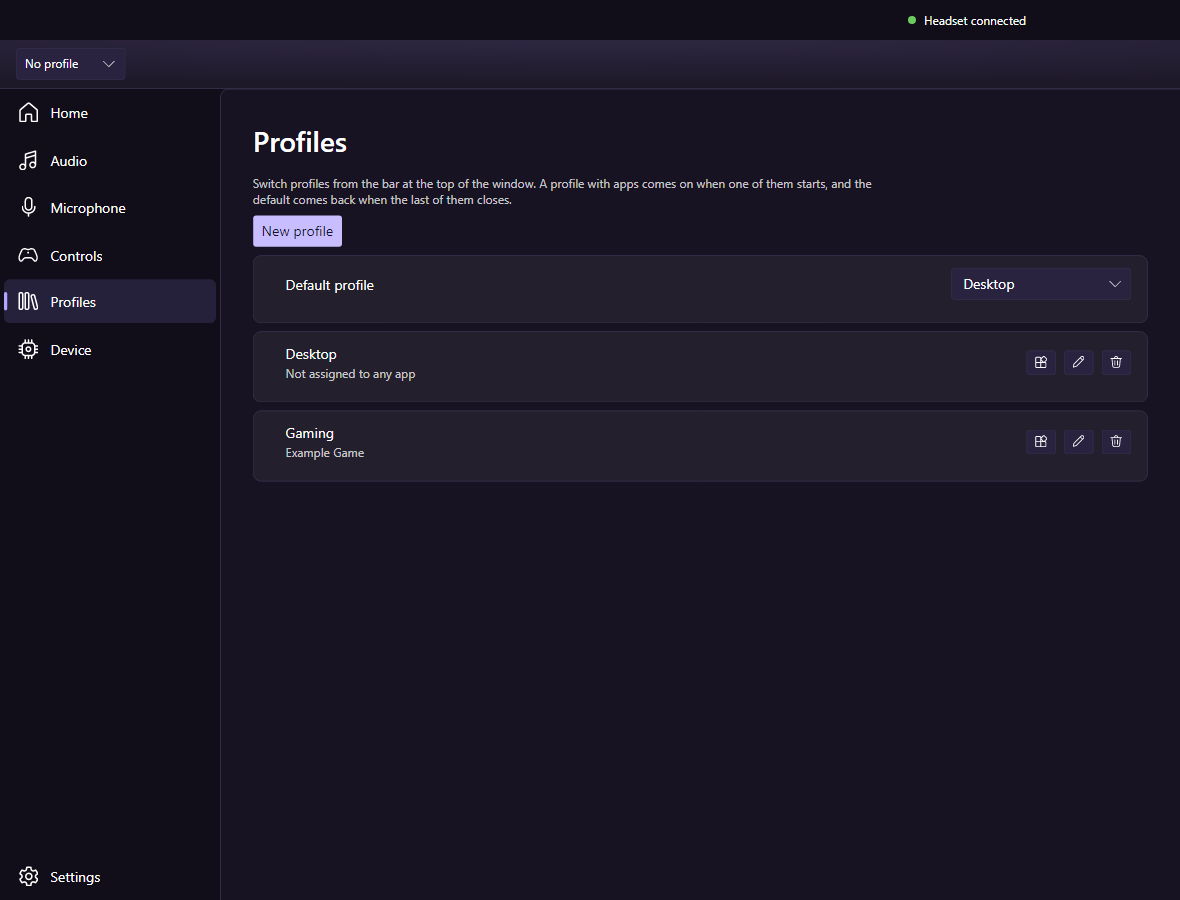
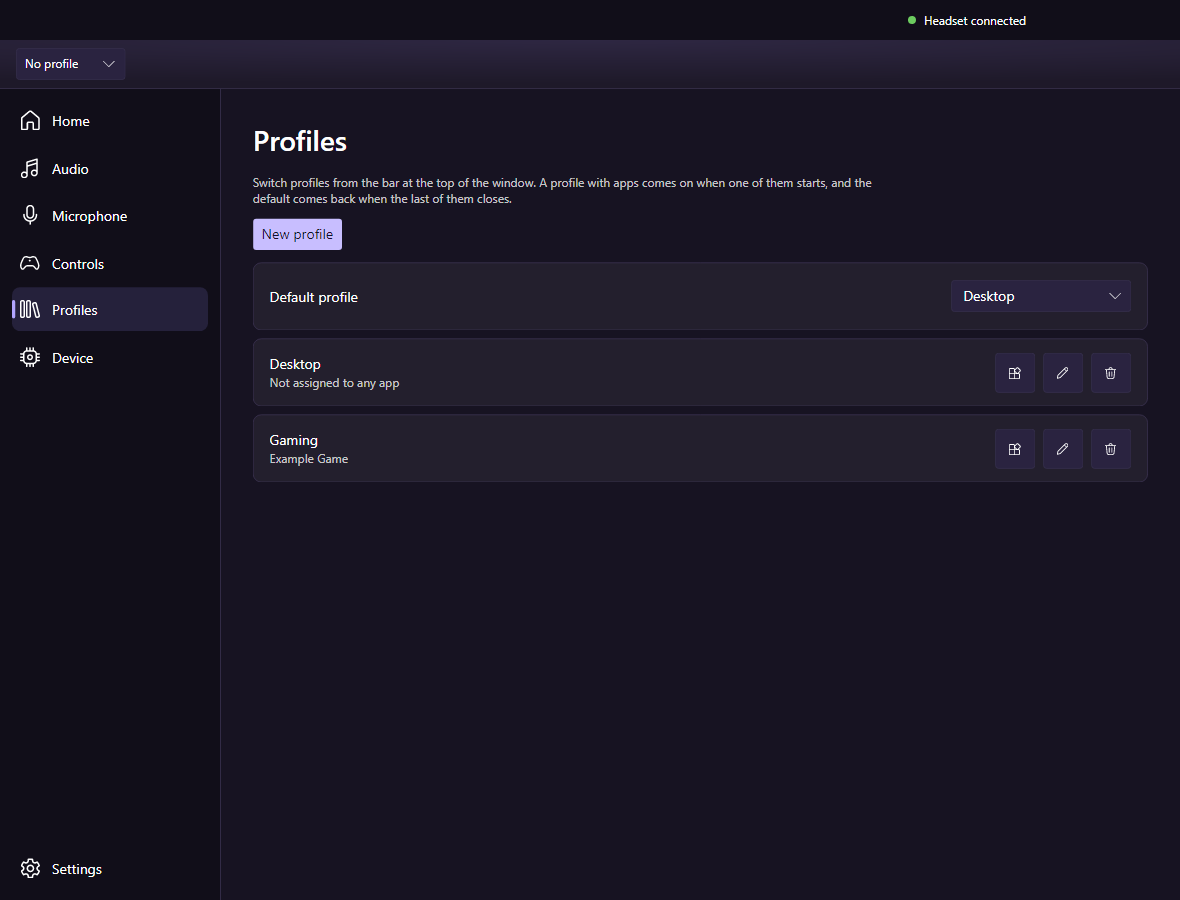
Bring the README up to the released app
The five pictures are retaken from the build that was released, with the new menu, Home readings and spacing, and the Charging Dock text now says the spare shows a bolt while it charges, and a battery just put in the headset reads Settling until it steadies.

diff --git a/README.md b/README.md
@@ -66,8 +66,11 @@ then goes back to your default when it closes.
 
 ### The Charging Dock
 
-See the spare battery's charge while the headset is docked, set the
-brightness of both lights, and choose the audio format. Neap can also put
+See the headset's battery and whether the spare in the dock is charging,
+set the brightness of both lights, and choose the audio format. The dock's
+level is only reliable once the spare is full, so while it charges Neap says
+so with a bolt instead of a number, and a battery just put in the headset
+reads "Settling…" until its reading steadies. Neap can also put
 the dock back into high-resolution audio after an app has used the
 microphone.
 
